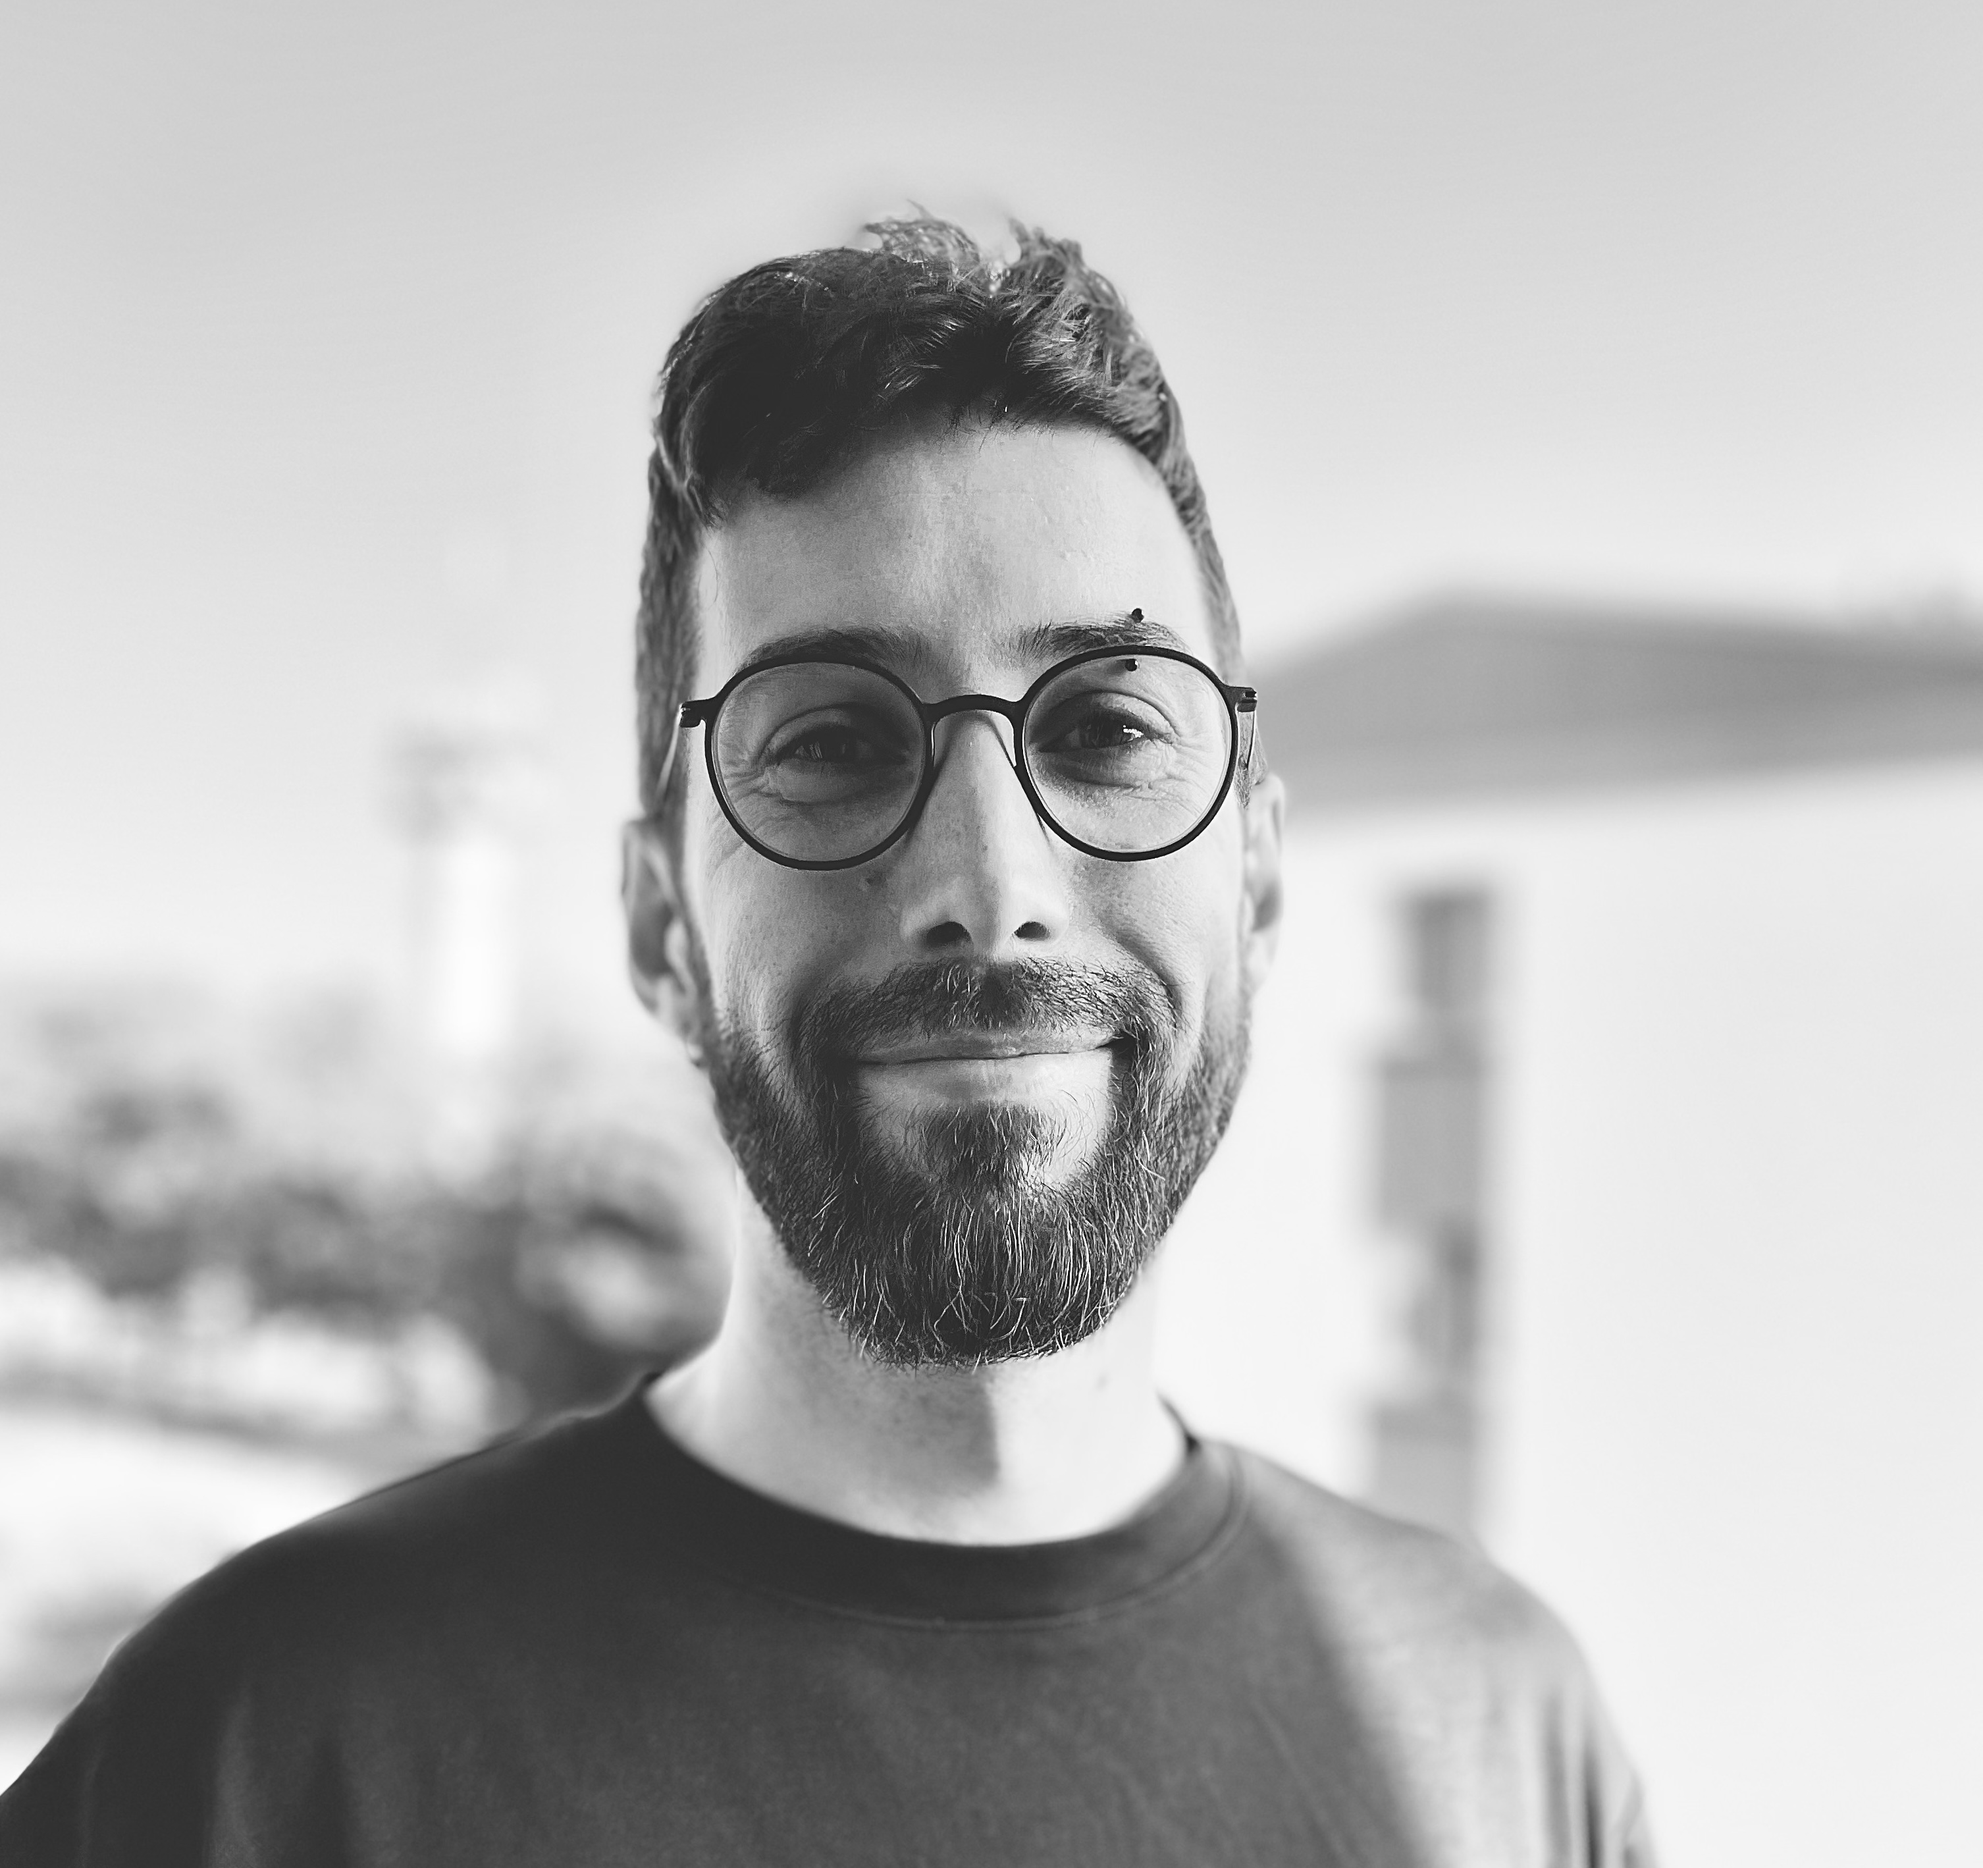
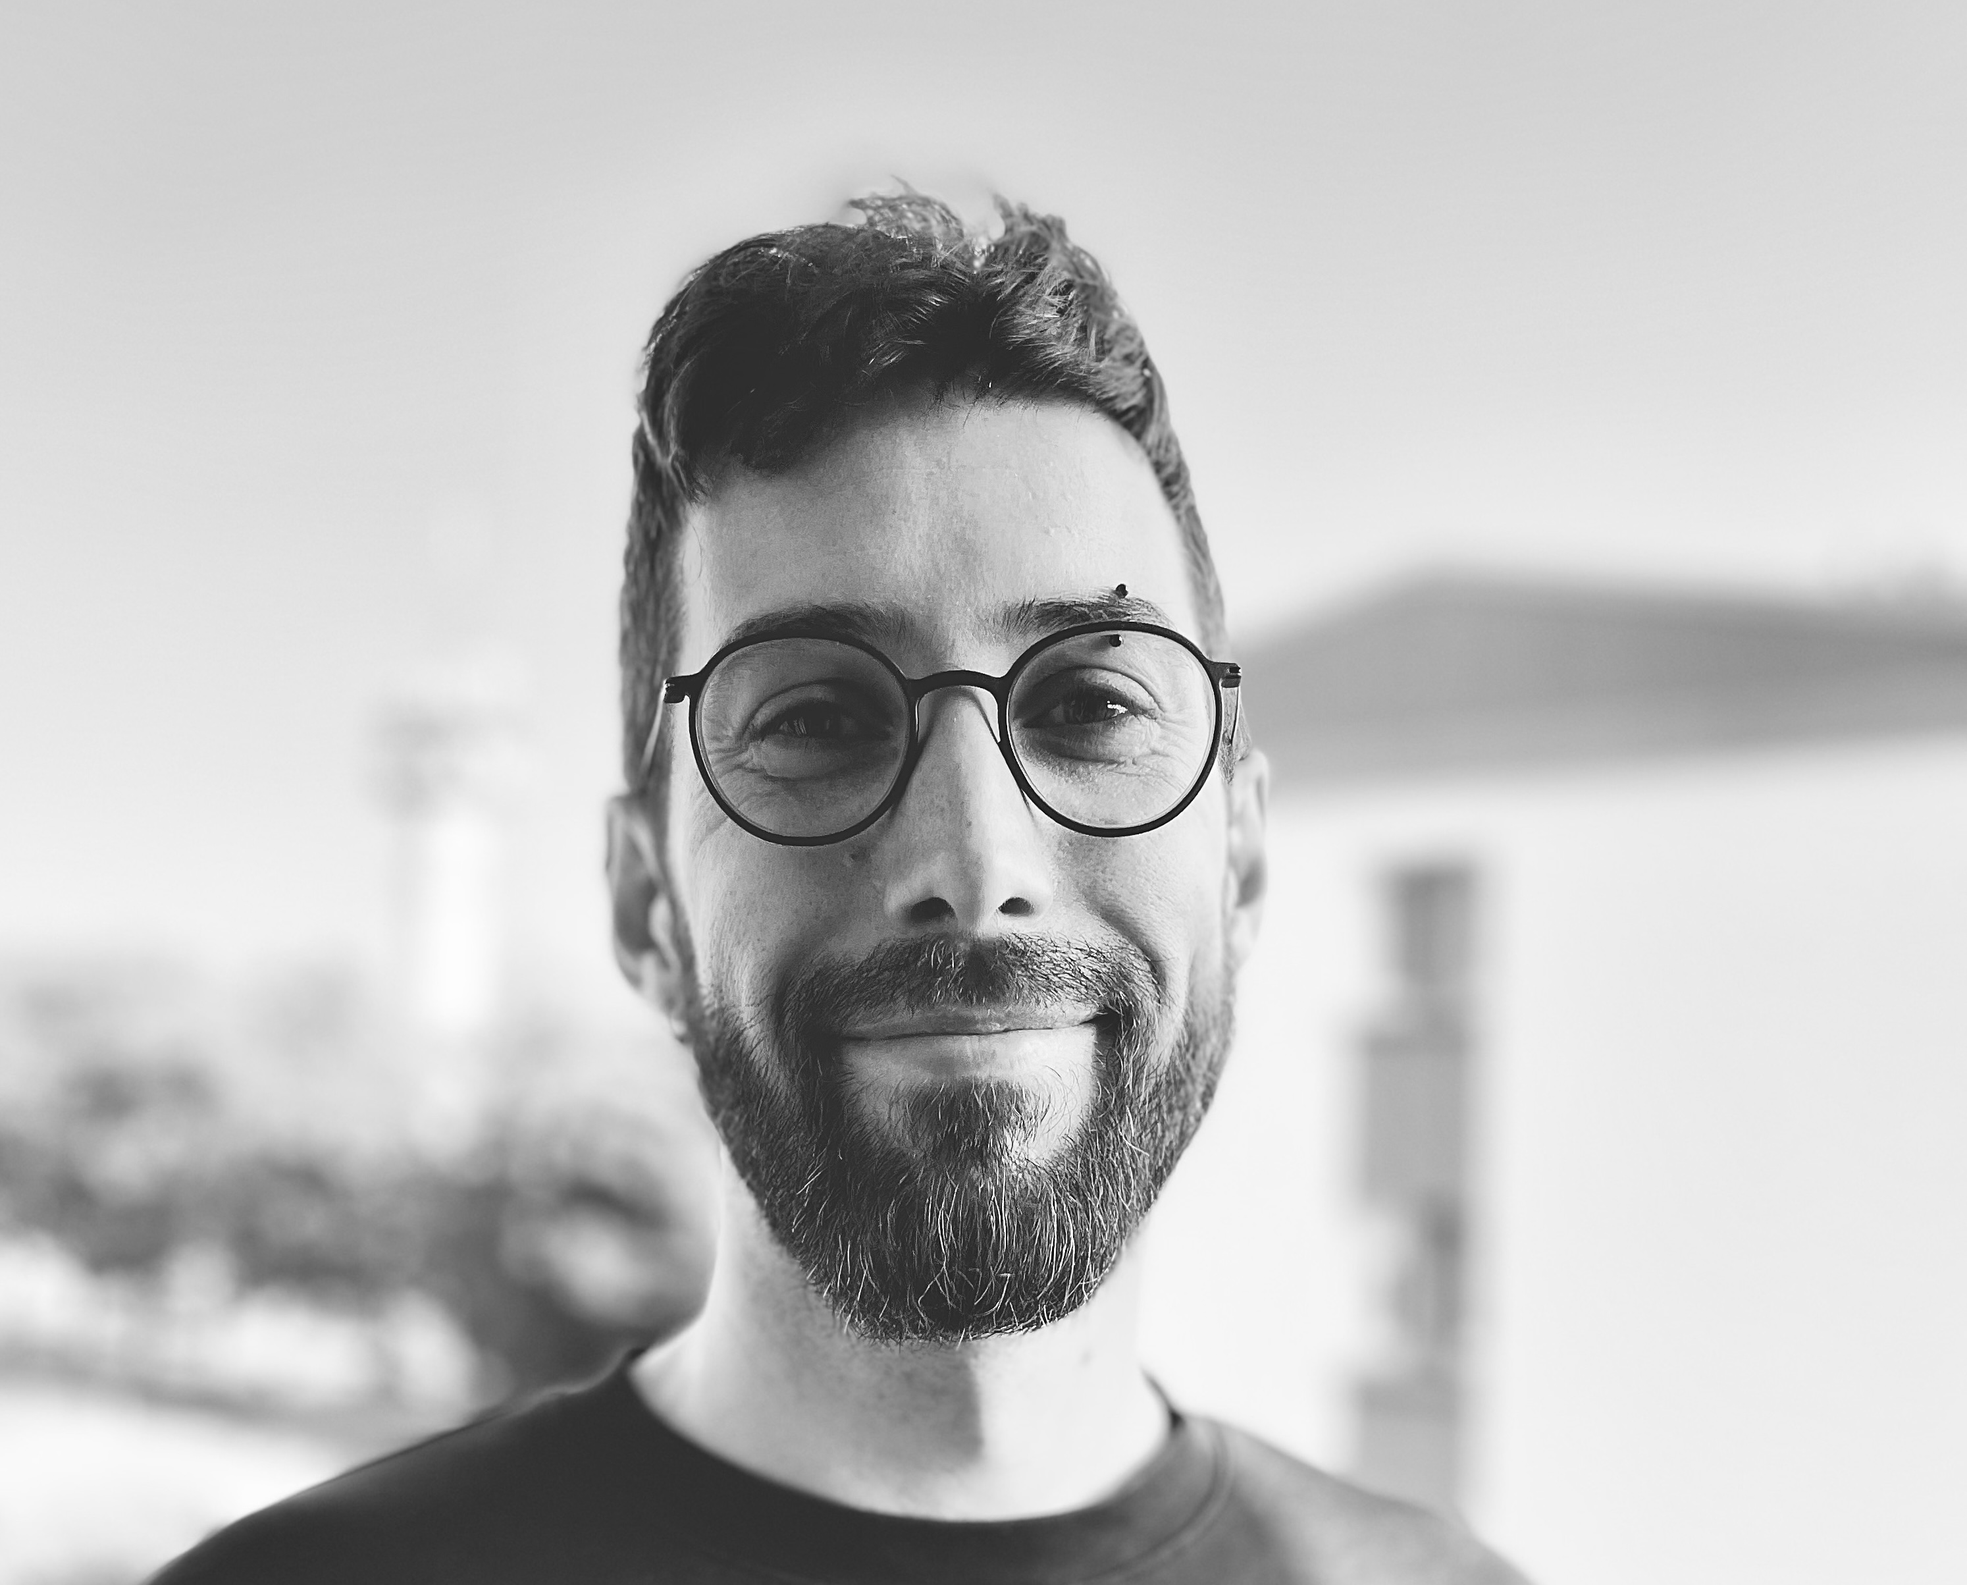
*

diff --git a/_includes/styles/portfolio.css b/_includes/styles/portfolio.css
@@ -24,7 +24,7 @@
 .portfolio-wrapper_subheader {
 
     font-size: var(--title-scale-3);
-    line-height: calc(var(--base-line-height) * 1.2);
+    line-height: calc(var(--base-line-height) * 1.3);
 
     &>span {
         background-color: var(--black);
@@ -46,14 +46,17 @@
     margin-right: auto;
     position: relative;
     display: grid;
+    grid-gap: var(--margin-s);
     align-items: center;
     grid-template-columns: repeat(3, 1fr);
-    height: 30vh;
+    height: 50vh;
     padding: 0 var(--margin-l) 0 var(--margin-l);
+    overflow: hidden;
+
 }
 
 .portfolio-wrapper__headgrid--text {
-    grid-column: 1 / span 2;
+    grid-column: 1 / span 1;
 
 }
 
@@ -71,6 +74,8 @@
         height: 100%;
         width: 100%;
         object-fit: cover;
+        object-position: center;
+
 /*        filter: grayscale(1) contrast(1);
         mix-blend-mode: lighten;
 */    }
@@ -85,6 +90,7 @@
 }
 
 .portfolio-wrapper__perf-text {
+    margin-top:0;
     margin-left: auto;
     margin-right: auto;
     max-width: 1440px;
